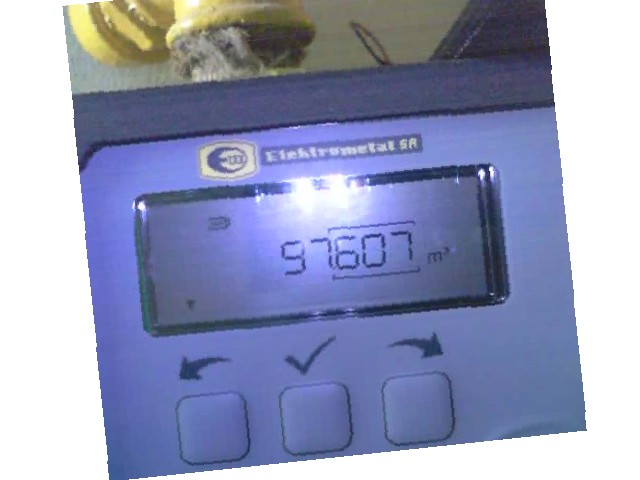
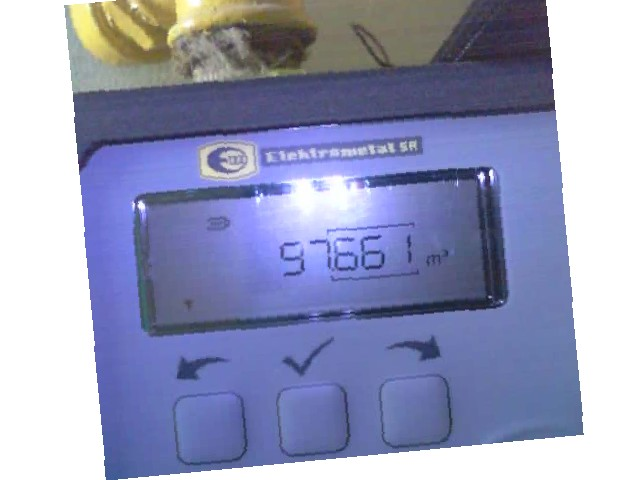
Automatyczna aktualizacja strony i danych

diff --git a/index.html b/index.html
@@ -35,11 +35,11 @@
 <body>
     <div class="container">
         <h1>Bieżący Stan Licznika</h1>
-        <div class="status">Ostatnia aktualizacja danych:<br><span class="timestamp">2026-10-27 10:04:29</span></div>
+        <div class="status">Ostatnia aktualizacja danych:<br><span class="timestamp">2026-10-27 10:09:57</span></div>
         <div class="odczyt">93498 m³</div>
         <div class="uwaga">Ostatni odczyt się nie powiódł, wyświetlana jest poprzednia poprawna wartość.</div>
         <h3>Aktualne zdjęcie z gazomierza:</h3>
-        <img src="img_tmp/alg.jpg?t=1793091869" alt="Zdjęcie licznika">
+        <img src="img_tmp/alg.jpg?t=1793092197" alt="Zdjęcie licznika">
     </div>
 </body>
 </html>
